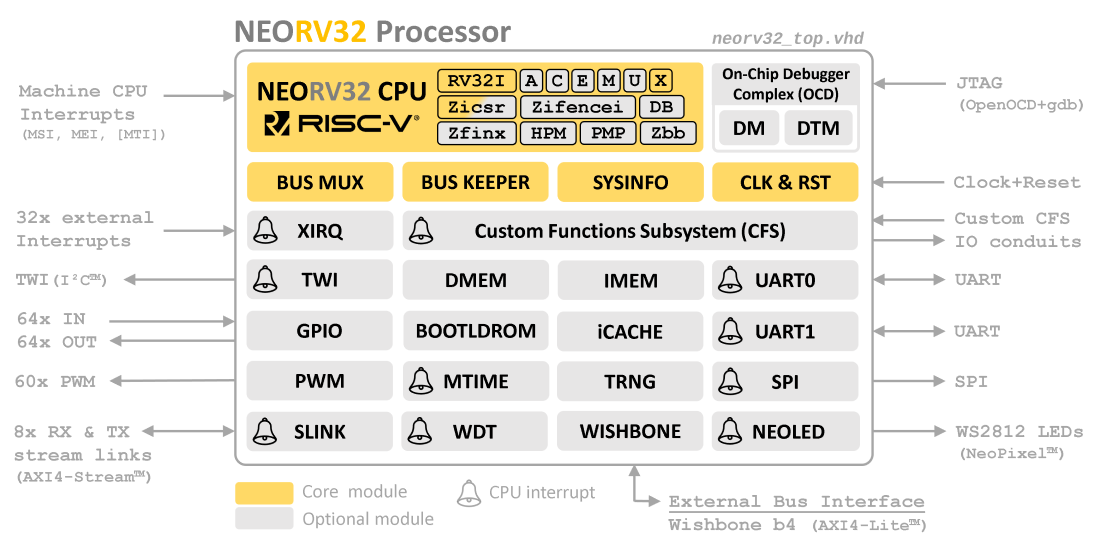
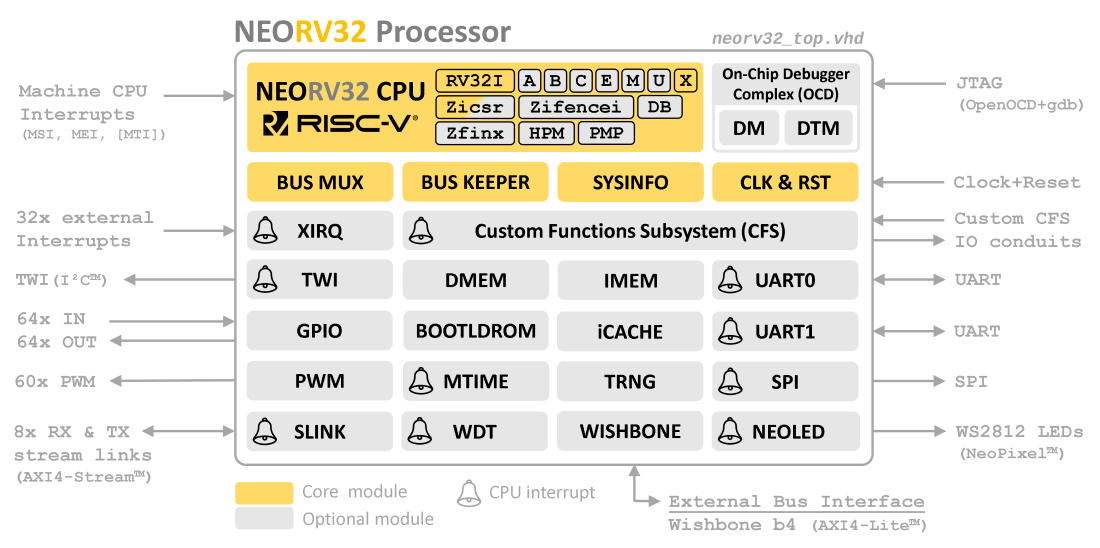
[docs] updated documentation

Changed region(s): [[0.2164, 0.1241, 0.6491, 0.2792]]

diff --git a/README.md b/README.md
@@ -192,11 +192,11 @@ documentation section). Note that the `X` extension is always enabled.
 [[`I`](https://stnolting.github.io/neorv32/#_i_base_integer_isa)/
 [`E`](https://stnolting.github.io/neorv32/#_e_embedded_cpu)]
 [[`A`](https://stnolting.github.io/neorv32/#_a_atomic_memory_access)]
+[[`B`](https://stnolting.github.io/neorv32/#_b_bit_manipulation_operations)]
 [[`C`](https://stnolting.github.io/neorv32/#_c_compressed_instructions)]
 [[`M`](https://stnolting.github.io/neorv32/#_m_integer_multiplication_and_division)]
 [[`U`](https://stnolting.github.io/neorv32/#_u_less_privileged_user_mode)]
 [[`X`](https://stnolting.github.io/neorv32/#_x_neorv32_specific_custom_extensions)]
-[[`Zbb`](https://stnolting.github.io/neorv32/#_zbb_basic_bit_manipulation_operations)]
 [[`Zfinx`](https://stnolting.github.io/neorv32/#_zfinx_single_precision_floating_point_operations)]
 [[`Zicsr`](https://stnolting.github.io/neorv32/#_zicsr_control_and_status_register_access_privileged_architecture)]
 [[`Zifencei`](https://stnolting.github.io/neorv32/#_zifencei_instruction_stream_synchronization)]
@@ -205,7 +205,7 @@ documentation section). Note that the `X` extension is always enabled.
 [[`HPM`](https://stnolting.github.io/neorv32/#_hpm_hardware_performance_monitors)]
 [[`DEBUG`](https://stnolting.github.io/neorv32/#_cpu_debug_mode)]**
 
-:warning: The `Zbb`, `Zfinx` and `Zmmul` RISC-V extensions are frozen but not officially ratified yet. Hence, there is no
+:warning: The `B`, `Zfinx` and `Zmmul` RISC-V extensions are frozen but not officially ratified yet. Hence, there is no
 upstream gcc support. To circumvent this, the NEORV32 software framework provides _intrinsic_ libraries for these extensions.
 
 [[back to top](#The-NEORV32-RISC-V-Processor)]
